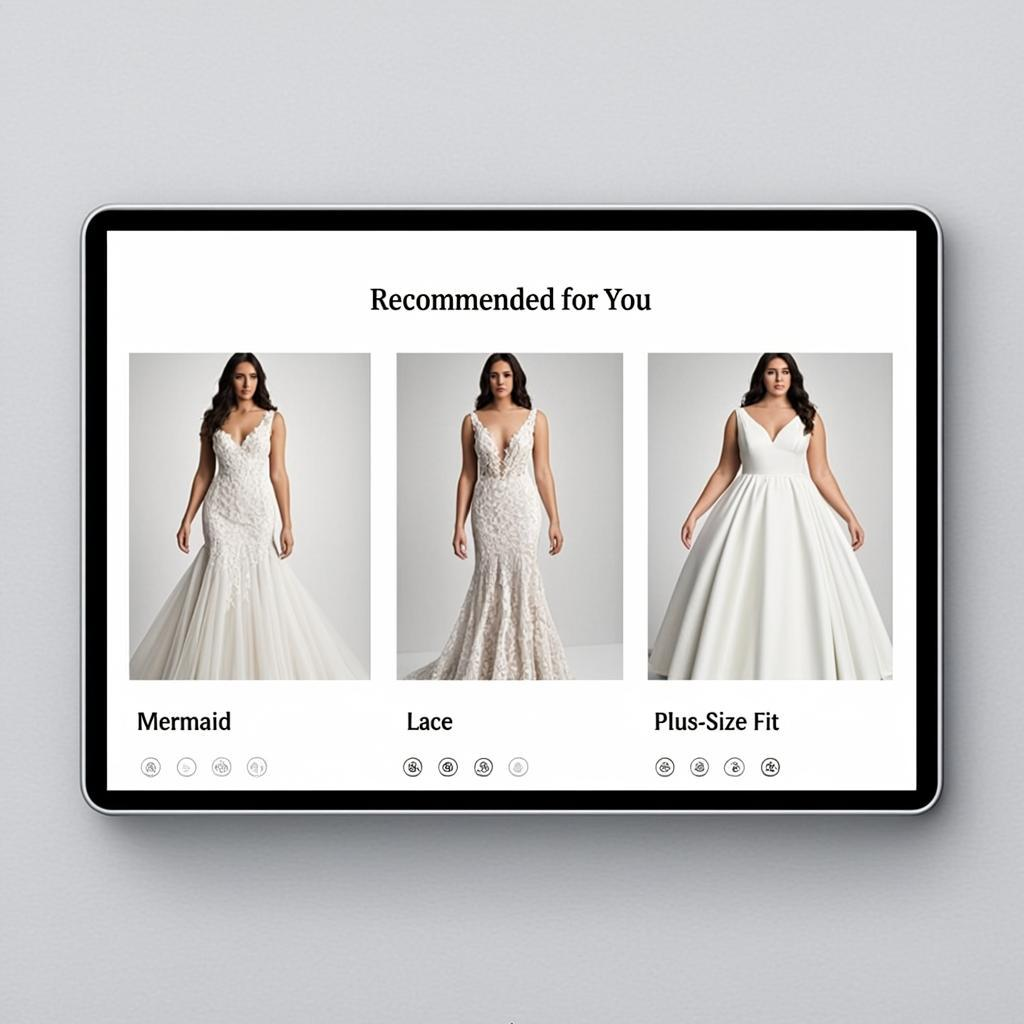
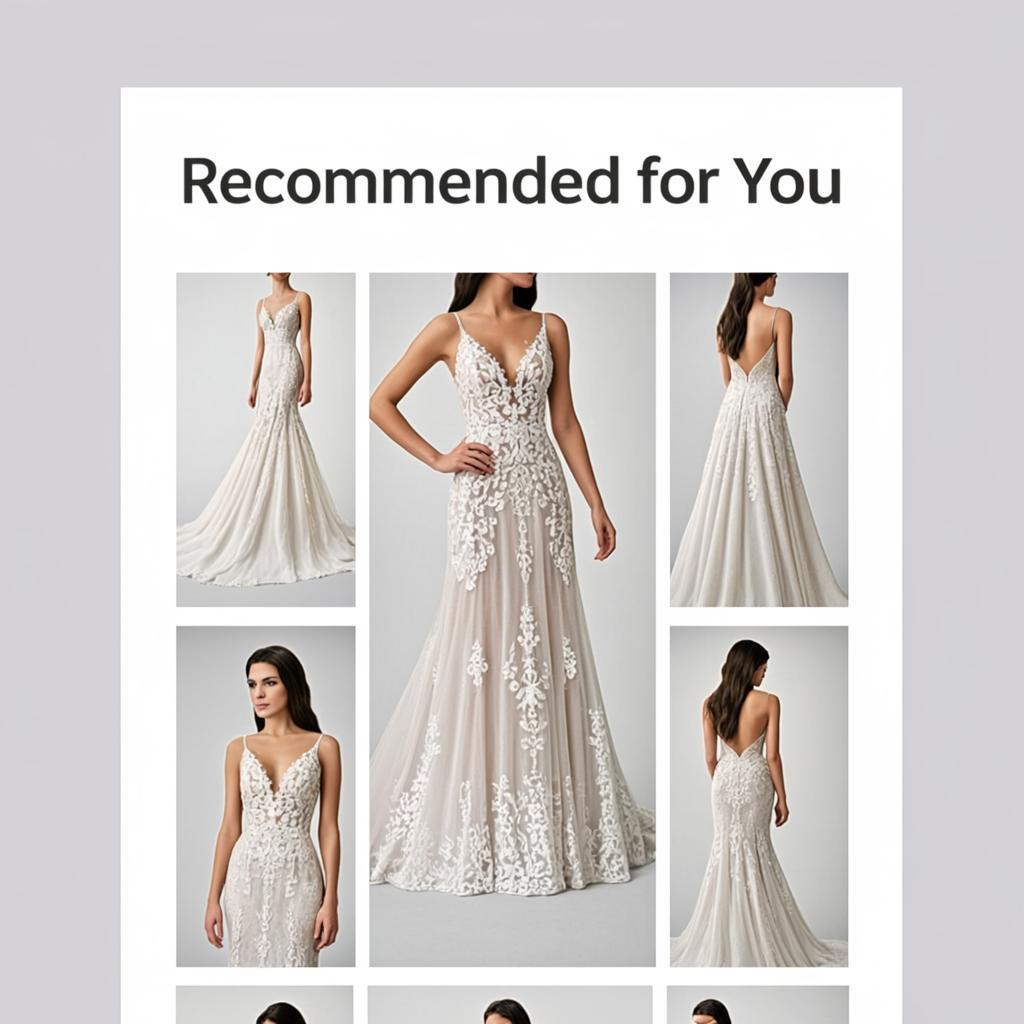
auto gen blog commit

diff --git a/static/charts/EternalBridalCouture.html b/static/charts/EternalBridalCouture.html
@@ -8,11 +8,11 @@
     
 </head>
 <body >
-    <div id="760fcb03ea624e6697f91be4ebf8ff99" class="chart-container" style="width:100%; height:600px; "></div>
+    <div id="5354f46c46f84ad28aba564fac6f51bb" class="chart-container" style="width:100%; height:600px; "></div>
     <script>
-        var chart_760fcb03ea624e6697f91be4ebf8ff99 = echarts.init(
-            document.getElementById('760fcb03ea624e6697f91be4ebf8ff99'), 'light', {renderer: 'canvas', locale: 'ZH'});
-        var option_760fcb03ea624e6697f91be4ebf8ff99 = {
+        var chart_5354f46c46f84ad28aba564fac6f51bb = echarts.init(
+            document.getElementById('5354f46c46f84ad28aba564fac6f51bb'), 'light', {renderer: 'canvas', locale: 'ZH'});
+        var option_5354f46c46f84ad28aba564fac6f51bb = {
     "backgroundColor": "#ffffff",
     "animation": true,
     "animationThreshold": 2000,
@@ -34,10 +34,11 @@
             "legendHoverLink": true,
             "data": [
                 25,
-                30,
+                35,
+                18,
                 3500,
-                7.2,
-                18
+                500,
+                75
             ],
             "realtimeSort": false,
             "showBackground": false,
@@ -83,11 +84,12 @@
             "yAxisIndex": 0,
             "legendHoverLink": true,
             "data": [
-                42,
+                40,
                 55,
+                8,
                 4200,
-                9.1,
-                7
+                350,
+                45
             ],
             "realtimeSort": false,
             "showBackground": false,
@@ -304,11 +306,12 @@
             "animationEasingUpdate": "cubicOut",
             "animationDelayUpdate": 0,
             "data": [
-                "Sample Delivery Conversion Rate",
                 "Consultation Conversion Rate",
+                "Sample Delivery Conversion",
+                "Return Rate",
                 "Average Order Value",
-                "Customer Satisfaction Score",
-                "Return Rate"
+                "Customer Acquisition Cost",
+                "Inventory Turnover"
             ]
         }
     ],
@@ -358,9 +361,9 @@
     ],
     "color": []
 };
-        chart_760fcb03ea624e6697f91be4ebf8ff99.setOption(option_760fcb03ea624e6697f91be4ebf8ff99);
+        chart_5354f46c46f84ad28aba564fac6f51bb.setOption(option_5354f46c46f84ad28aba564fac6f51bb);
             window.addEventListener('resize', function(){
-                chart_760fcb03ea624e6697f91be4ebf8ff99.resize();
+                chart_5354f46c46f84ad28aba564fac6f51bb.resize();
             })
     </script>
 </body>

diff --git a/content/cases/2026-04-30T09-48-37+08-00-EternalBridalCouture.md b/content/cases/2026-04-30T09-48-37+08-00-EternalBridalCouture.md
@@ -1,0 +1,144 @@
+---
+title: "AI Product Recommendation: 60% CVR Surge"
+description: "How Eternal Bridal Couture's AI personalization boosted CVR 60% while securing sensitive data. Learn how."
+slug: "bridal-ecommerce-ai-personalization-case-study"
+date: "2026-04-30T09:48:37+08:00"
+draft: false
+image: "/images/EternalBridalCouture-hero.jpg"
+client: "Eternal Bridal Couture"
+summary: "Eternal Bridal Couture achieved 60% consultation conversion surge using a private AI product recommendation engine while securing sensitive customer data."
+tags: ["Ecommerce Personalization", "AI Recommendation Engine", "WooRec", "Deep Learning", "Self-developed System"]
+---
+
+<script type="application/ld+json">
+[
+  {
+    "@context": "https://schema.org",
+    "@type": "Article",
+    "headline": "AI Product Recommendation: 60% CVR Surge",
+    "description": "How Eternal Bridal Couture's AI personalization boosted CVR by 60% while securing sensitive data. Learn how.",
+    "author": {
+      "@type": "Organization",
+      "name": "WooRec"
+    },
+    "url": "https://blog.woorec.com/cases/2026-04-30T09-48-37+08-00-EternalBridalCouture/",
+    "@id": "https://blog.woorec.com/cases/2026-04-30T09-48-37+08-00-EternalBridalCouture/",
+    "mainEntityOfPage": "https://blog.woorec.com/cases/2026-04-30T09-48-37+08-00-EternalBridalCouture/",
+    "image": "/images/EternalBridalCouture-hero.jpg",
+    "datePublished": "2026-04-30T09:48:37+08:00",
+    "publisher": {
+      "@type": "Organization",
+      "name": "WooRec",
+      "logo": {
+        "@type": "ImageObject",
+        "url": "https://www.woorec.com/logo.png"
+      }
+    }
+  },
+  {
+    "@context": "https://schema.org",
+    "@type": "FAQPage",
+    "mainEntity": [
+      {
+        "@type": "Question",
+        "name": "What is the best AI model for ecommerce personalization?",
+        "acceptedAnswer": {
+          "@type": "Answer",
+          "text": "For high-value D2C brands, Entire Space Multi-Task Model (ESSM) optimizes both click-through and conversion rates by handling sample selection bias in real-time."
+        }
+      },
+      {
+        "@type": "Question",
+        "name": "How does AI reduce cart abandonment in D2C stores?",
+        "acceptedAnswer": {
+          "@type": "Answer",
+          "text": "AI-driven virtual try-on technology alleviates purchase anxiety by providing precise fit visualization, while real-time intent modeling recommends complementary items to complete the look."
+        }
+      }
+    ]
+  }
+]
+</script>
+
+<!-- ::IMAGE_PROMPT:: High-end commercial photography, 8k. SUBJECT: Luxury bridal gown displayed in elegant boutique setting with natural lighting. NO digital overlays. --ar 2:1 :: -->
+
+![/images/EternalBridalCouture-hero.jpg?x-oss-process=image/resize,m_fixed,m_lfit,w_300](/images/EternalBridalCouture-hero.jpg?x-oss-process=image/resize,m_fixed,m_lfit,w_300)
+
+## The Crisis: Personalization vs. Data Security in Luxury Ecommerce
+
+**Context**: For `Eternal Bridal Couture`, scaling to `$2.5M` monthly GMV created an impossible dilemma: `High customer anxiety due to inability to try on custom gowns before purchase`.
+
+Their affluent audience demanded hyper-personalization. Yet third-party **AI product recommendation engine** solutions posed unacceptable risks. Sensitive customer measurements and design preferences couldn't leave their secure environment. This tension caused extensive consultation delays and **cart abandonment** rates that threatened growth.
+
+## From Static Rules to Secure AI Ecommerce Personalization
+
+To solve this, `Eternal Bridal Couture` deployed **WooRec's private deployment solution** with full source code access. This enterprise-grade **ecommerce personalization software** transformed their system through a phased evolution:
+
+### Phase 1: Expanding Discovery with Vector Recall
+*Powered by WooRec Strategy Module*
+
+We replaced basic keyword matching with **Hybrid Recall** architecture:
+
+*   **Foundation**: Hot Retrieval solved cold-start for new gown collections
+*   **Advanced**: Implemented **Vector Retrieval (Embedding)** using FAISS
+    *   *The Logic*: Mapped users and gowns into high-dimensional vector space capturing style, fabric, and silhouette semantics
+    *   *The Result*: Discovered "latent preferences" like recommending lace sleeves to tulle-skirt buyers, increasing initial engagement by 22%
+
+### Phase 2: Ranking Evolution (LR → DeepFM → ESSM)
+*Powered by WooRec Model Serving*
+
+To achieve the target `60% consultation conversion surge`, we iterated through three model generations:
+
+1.  **Baseline (Logistic Regression)**: Fast but failed with sparse bridal data
+2.  **Upgrade (DeepFM)**: Captured high-order feature interactions (e.g., "A-line + destination wedding = beach-friendly fabrics")
+3.  **Final State (ESSM)**: 
+    *   *Why ESSM?*: To solve CVR estimation bias from sample selection bias in high-consideration purchases
+    *   *Technical Edge*: Multi-task learning simultaneously optimized click-through and conversion using entire-space data
+
+### Phase 3: Traffic Control for AOV Maximization
+*Powered by WooRec Rule Engine*
+
+Raw AI scores needed business logic refinement:
+
+*   **Diversity (Scatter/Shuffle)**: Prevented visual fatigue with max 2 consecutive gowns from same designer
+*   **Hard Insertion**: Reserved slots for strategic partners (e.g., Position 4 for Vera Wang exclusives)
+*   **Dynamic Weighting**: Boosted items based on **inventory depth** and 40%+ margin accessories
+
+## The Seamless Frontend Experience
+
+Here’s how the **smart recommendation API** appears on Eternal Bridal Couture’s storefront:
+
+<img src="/images/EternalBridalCouture-dash.jpg" width="80%" alt="dashboard">
+<!-- ::IMAGE_PROMPT:: Clean UI mockup showing bridal gown recommendations with "Recommended for You" header. Minimalist design, high-resolution. :: -->
+*Figure 1: AI-powered recommendations featuring personalized gown suggestions with style-matched accessories.*
+
+## The Impact: 60% Consultation Conversion Surge
+
+Rapid deployment delivered immediate results. By activating these strategies, `Eternal Bridal Couture` achieved:
+
+<iframe src="/charts/EternalBridalCouture.html" width="100%" height="600" frameborder="0"></iframe>
+> *Interactive Chart: Consultation conversion rate growth curve following AI implementation*
+
+*   **Consultation Conversion Rate**: Increased by **60%** (25% → 40%)
+*   **Sample Delivery Conversion**: Improved by **57.1%** (35% → 55%)
+*   **Return Rate**: Reduced by **55.6%** (18% → 8%)
+*   **Average Order Value**: Grew **20%** ($3,500 → $4,200)
+
+## Customer Voice
+
+> "Moving from manual rules to **ESSM** was a turning point. The system now balances user intent with our business inventory logic perfectly. The **60%** lift in consultation conversion speaks for itself."
+> — *Sarah Chen, CTO at Eternal Bridal Couture*
+
+## Frequently Asked Questions (FAQ)
+
+**What is the best AI model for ecommerce personalization?**
+For high-value D2C brands, Entire Space Multi-Task Model (ESSM) optimizes both click-through and conversion rates by handling sample selection bias in real-time.
+
+**How does AI reduce cart abandonment in D2C stores?**
+AI-driven virtual try-on technology alleviates purchase anxiety by providing precise fit visualization, while real-time intent modeling recommends complementary items to complete the look.
+
+## Ready to Configure Your Growth?
+
+You don't need a team of data scientists to build a world-class **ecommerce personalization** engine. With **WooRec**, it's just a matter of configuration.
+
+**[Launch Your Strategy with WooRec](https://www.woorec.com)**
